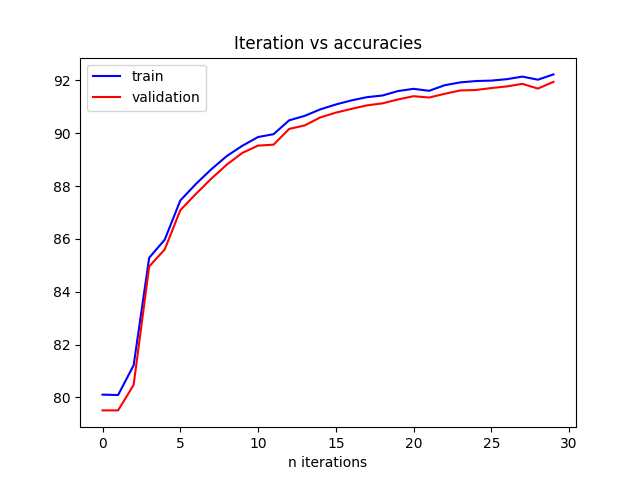
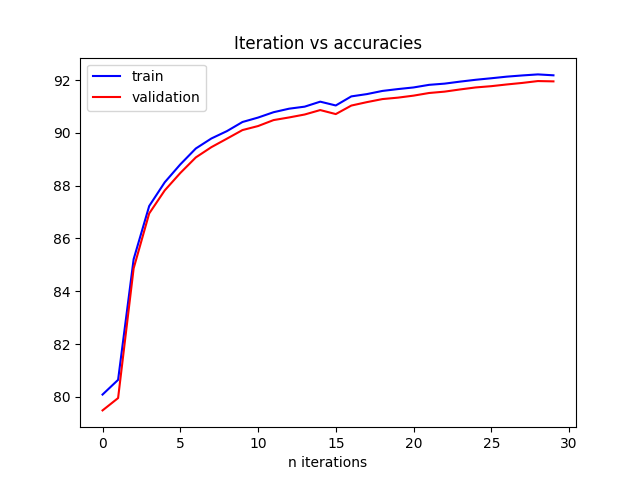
execute unet-plus with same weights for the losses

diff --git a/utils.py b/utils.py
@@ -131,7 +131,7 @@ def train_fn(train_dl, model, optimizer, loss_fn, device):
         loss1 = loss_fn(predictions[0], targets)
         loss2 = loss_fn(predictions[1], targets)
         loss3 = loss_fn(predictions[2], targets)
-        loss = (0.8*loss1 + 0.1*loss2 + 0.1*loss3)
+        loss = (loss1 + loss2 + loss3)/3.0
 
         #loss = loss_fn(predictions, targets)
         # backward

diff --git a/train.py b/train.py
@@ -81,8 +81,8 @@ def main():
     #loss_fn = FocalLoss()
 
     
-    print("UNET_Plus3")
-    writer = SummaryWriter("runs/UNET_Plus3")
+    print("UNET_Plus")
+    writer = SummaryWriter("runs/UNET_Plus")
     model = UNET_Plus(3, 1) #in_channels=3, out_channels=1)
     model.to(device=DEVICE)
     optimizer = optim.Adam(model.parameters(), lr=LEARNING_RATE,)
